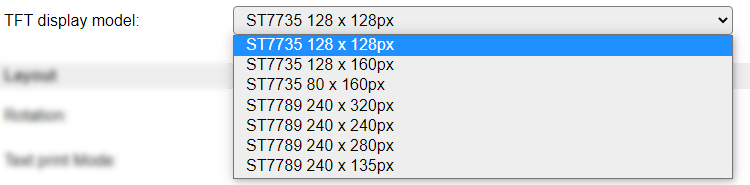
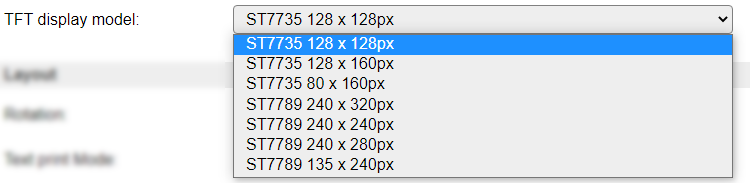
[P116] Swap resolution for 135x240 display

diff --git a/src/src/PluginStructs/P116_data_struct.cpp b/src/src/PluginStructs/P116_data_struct.cpp
@@ -15,7 +15,7 @@ const __FlashStringHelper* ST77xx_type_toString(ST77xx_type_e device) {
     case ST77xx_type_e::ST7789vw_240x320: return F("ST7789 240 x 320px");
     case ST77xx_type_e::ST7789vw_240x240: return F("ST7789 240 x 240px");
     case ST77xx_type_e::ST7789vw_240x280: return F("ST7789 240 x 280px");
-    case ST77xx_type_e::ST7789vw_240x135: return F("ST7789 240 x 135px");
+    case ST77xx_type_e::ST7789vw_135x240: return F("ST7789 135 x 240px");
     case ST77xx_type_e::ST77xx_MAX: break;
   }
   return F("Unsupported type!");
@@ -75,9 +75,9 @@ P116_data_struct::P116_data_struct(ST77xx_type_e       device,
       _xpix = 240;
       _ypix = 280;
       break;
-    case ST77xx_type_e::ST7789vw_240x135:
-      _xpix = 240;
-      _ypix = 135;
+    case ST77xx_type_e::ST7789vw_135x240:
+      _xpix = 135;
+      _ypix = 240;
       break;
     case ST77xx_type_e::ST77xx_MAX:
       break;
@@ -134,7 +134,7 @@ bool P116_data_struct::plugin_init(struct EventStruct *event) {
       case ST77xx_type_e::ST7789vw_240x320: // ST7789vw 240x320 fall through
       case ST77xx_type_e::ST7789vw_240x240: // ST7789vw 240x240
       case ST77xx_type_e::ST7789vw_240x280: // ST7789vw 240x280
-      case ST77xx_type_e::ST7789vw_240x135: // ST7789vw 240x135
+      case ST77xx_type_e::ST7789vw_135x240: // ST7789vw 135x240
       {
         st7789 = new (std::nothrow) Adafruit_ST7789(PIN(0), PIN(1), PIN(2));
 

diff --git a/src/src/PluginStructs/P116_data_struct.h b/src/src/PluginStructs/P116_data_struct.h
@@ -69,7 +69,7 @@ enum class ST77xx_type_e : uint8_t {
   ST7789vw_240x320,
   ST7789vw_240x240,
   ST7789vw_240x280,
-  ST7789vw_240x135,
+  ST7789vw_135x240,
   ST77xx_MAX // must be last value in enum
 };
 

diff --git a/docs/source/Plugin/P116.rst b/docs/source/Plugin/P116.rst
@@ -29,7 +29,7 @@ The ST7735 and ST7789 chip family drives color TFT displays in various resolutio
 This plugin supports these display models:
 
 * **ST7735** with resolutions 128 x 128, 128 x 160 and 80 x 160 pixels
-* **ST7789** with resolutions 240 x 320, 240 x 240, 240 x 280 and 240 x 135 pixels
+* **ST7789** with resolutions 240 x 320, 240 x 240, 240 x 280 and 135 x 240 pixels
 
 The plugin can be configured to show predefined text, a reservation for up to 24 lines is made, but only the lines that can fit on-screen will be shown, or via commands, sent via http or from rules, text or graphical elements like lines, rectangles, circles, pixels, etc., can be shown.
 
@@ -68,10 +68,10 @@ ST7789 240 x 240 pixels (This model has no ``CS`` pin available)
 
 ST7789 240 x 280 pixels (some have rounded corners, in that case corner-pixels are addressable but not visible)
 
-.. image:: P116_st7789_240x135.png
-   :alt: ST7789 240 x 135 pixels
+.. image:: P116_st7789_135x240.png
+   :alt: ST7789 135 x 240 pixels
 
-ST7789 240 x 135 pixels
+ST7789 135 x 240 pixels
 
 Connections
 ^^^^^^^^^^^^
@@ -87,7 +87,7 @@ The text on most displays is somewhat confusing, as not the usual SPI names are 
   3V3     --- VCC (most displays only support 3.3V)
   GND     --- GND
   MOSI    --> SDA
-  CLK     --> SLC
+  CLK     --> SCL/SCK
   (gpio)  --> DC
   (gpio)  --> CS (optional, not available on all displays)
   (gpio)  --> RES (optional)
@@ -128,7 +128,7 @@ Available options:
 * *ST7789 240 x 320px* Allows 32 lines of text in the smallest font scaling setting. Predefined text only goes to 24, extra lines can be displayed from rules or external commands.
 * *ST7789 240 x 240px* Allows 24 lines of text in the smallest font scaling setting.
 * *ST7789 240 x 280px* Allows 28 lines of text in the smallest font scaling setting. Predefined text only goes to 24, extra lines can be displayed from rules or external commands.
-* *ST7789 240 x 135px* Allows about 13 lines of text in the smallest font scaling setting (the 14th line may be distorted because of a lack of pixellines).
+* *ST7789 135 x 240px* Allows about 13 lines of text in the smallest font scaling setting (the 14th line may be distorted because of a lack of pixellines).
 
 Layout
 ^^^^^^^^
